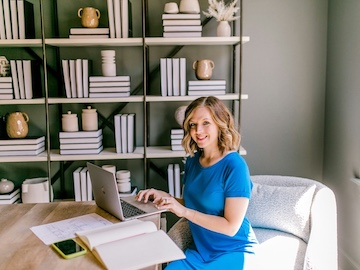
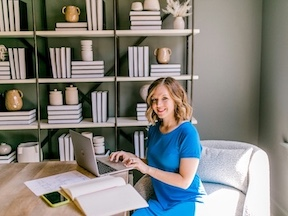
landing updates

diff --git a/public/index.html b/public/index.html
@@ -48,15 +48,15 @@
     <section class="hero">
       <div class="container hero-inner">
         <div class="hero-text">
-          <span class="eyebrow">Growth planning for local businesses</span>
-          <h1>Grow your customer base with goals you can actually hit.</h1>
-          <p class="lead">Calico turns &ldquo;we need more customers&rdquo; into a specific, measurable target and a twelve-week plan to reach it. Then it checks in with you every Monday so the plan doesn&rsquo;t end up in a drawer.</p>
-          <div class="hero-actions">
+          <div><span class="eyebrow item1">Growth planning for local businesses</span></div>
+          <div><h1 class="item2">Grow your customer base with goals you can actually hit.</h1></div>
+          <div><p class="lead item3">Calico turns &ldquo;we need more customers&rdquo; into a specific, measurable target and a twelve-week plan to reach it. Then it checks in with you every Monday so the plan doesn&rsquo;t end up in a drawer.</p></div>
+          <div class="hero-actions item4">
             <a class="btn" href="contact.html">Book a demo</a>
             <a class="btn btn--ghost" href="features.html">See how it works</a>
           </div>
         </div>
-        <div class="hero-media">
+        <div class="hero-media item5">
           <img class="hero-image" src="images/hero-weekly-plan-large.jpg" 
           srcset="images/hero-weekly-plan-small.jpg 480w, 
           images/hero-weekly-plan-medium.jpg 768w, 

diff --git a/public/css/styles.css b/public/css/styles.css
@@ -901,6 +901,35 @@ img {
   padding-top: 24px;
 }
 
+@media (max-width: 1100px) {
+  .hero-media {
+    width: 100%;
+  }
+
+  .nav-links {
+    flex-wrap: wrap;
+  }
+
+  .container {
+    display: flex;
+    flex-direction: column;
+  }
+
+  .item5 {
+    order: 2;
+  }
+
+  .item4 {
+    order: 5;
+  }
+
+  .hero-inner {
+    /* flex-wrap: wrap; */
+    flex-direction: column-reverse;
+    padding: 0 14px;
+  }
+}
+
 @media (max-width: 768px) {
 
   .nav-links {
@@ -927,7 +956,6 @@ img {
   }
 
   .hero-actions {
-    order: 1;
     justify-content: center;
   }
 

diff --git a/public/contact.html b/public/contact.html
@@ -46,6 +46,8 @@
           <label for="message">How can we help?</label>
           <textarea id="message" name="message" required></textarea>
 
+          <input type="text" name="honeypot" style="display:none;" tabindex="-1" autocomplete="off" />
+
           <button class="btn" type="submit">Send message</button>
           <p class="form-status" id="form-status" role="status"></p>
         </form>

diff --git a/server/node.js b/server/node.js
@@ -1,0 +1,11 @@
+app.post('/submit', (req, res) => {
+    const { name, email, message, honeypot } = req.body;
+
+    if (honeypot) {
+        return res.send("Thanks, we'll be in touch.");
+    }
+
+    
+
+    res.send("Thanks, we'll be in touch.");
+});
